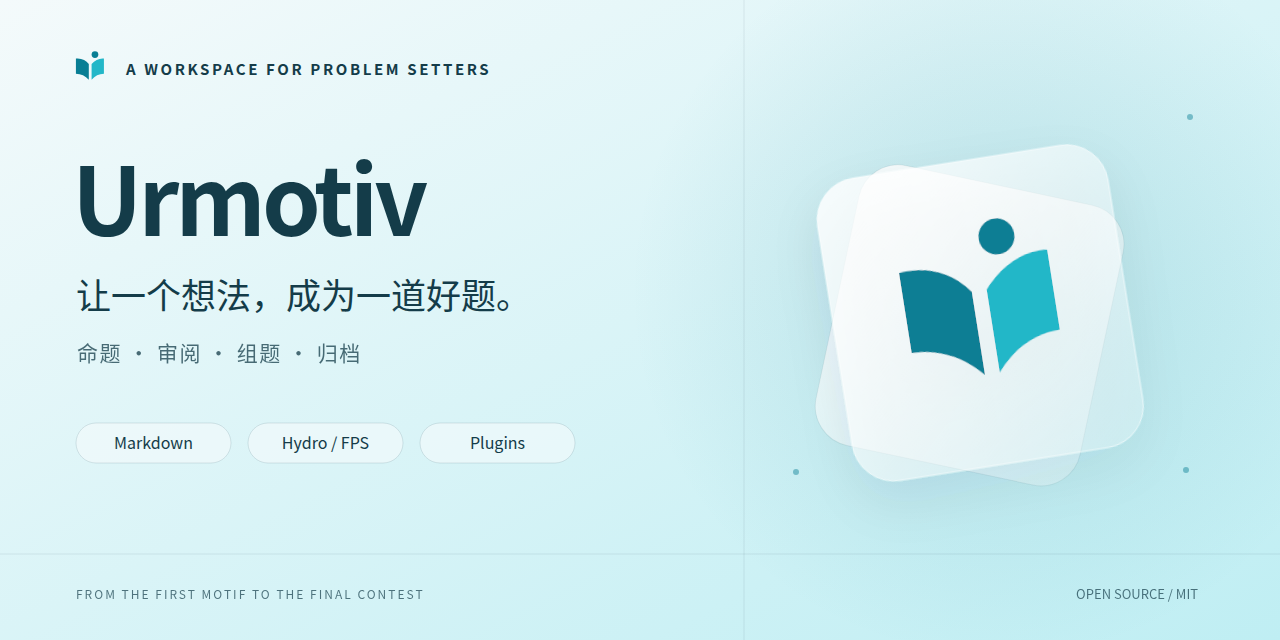
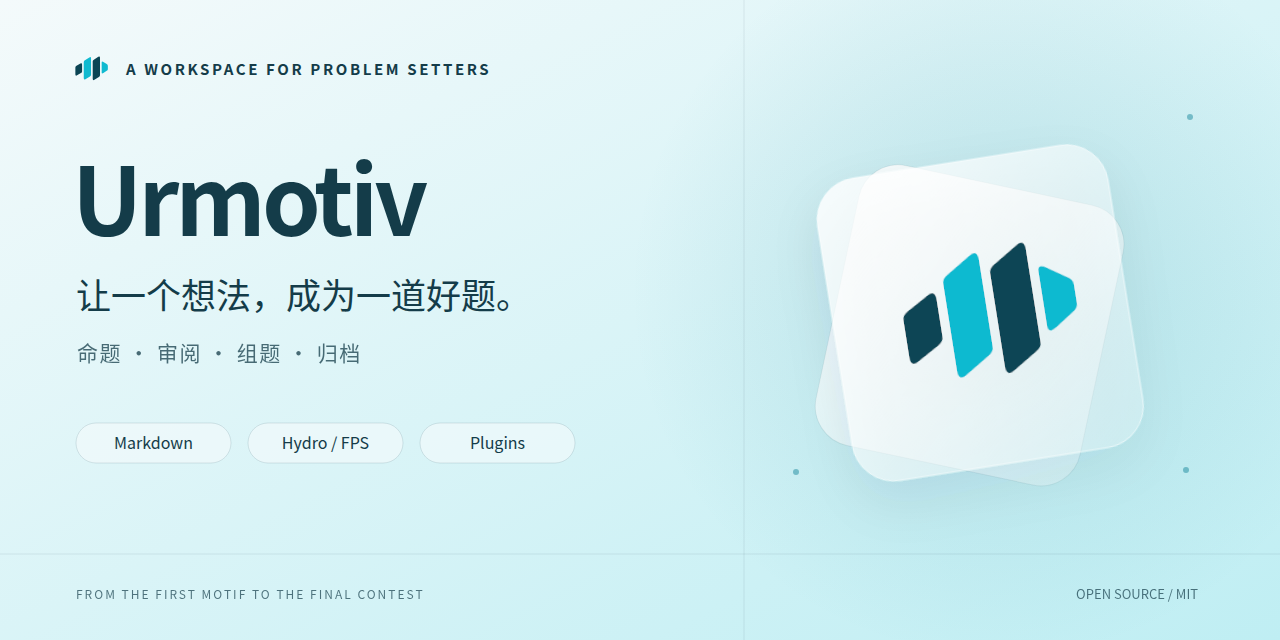
feat(brand): adopt the selected rhythmic motif identity

Changed region(s): [[0.6875, 0.3438, 0.8438, 0.5938], [0.0625, 0.0625, 0.0938, 0.125]]

diff --git a/apps/web/src/components/brand-mark.tsx b/apps/web/src/components/brand-mark.tsx
@@ -1,4 +1,4 @@
-/** 题稿展开为一个音乐动机；文字名称由相邻品牌链接提供。 */
+/** 长短相间的节奏短句；文字名称由相邻品牌链接提供。 */
 export function BrandMark() {
   return <img className="brand-mark" src="/brand/urmotiv.svg" alt="" aria-hidden="true" width="34" height="34" />;
 }

diff --git a/docs/assets/brand.md b/docs/assets/brand.md
@@ -1,0 +1,7 @@
+# 节奏短句
+
+Urmotiv 的标志由四个长短相间的形状组成，借音乐动机的重复与变化，表达想法在协作推敲中成为题目、编排为比赛的过程。深青色 `#0b4554` 与亮青色 `#10bad0` 交替出现；小尺寸使用纯色，避免渐变和细线丢失。
+
+最终标志位于 `apps/web/public/brand/urmotiv.svg`；仓库封面源文件是 `docs/assets/cover.svg`，预览是 `docs/assets/social-preview.png`。网站使用可缩放的 SVG，不依赖图片服务。
+
+构思阶段使用 imagegen CLI 的 `gpt-image-2.5-sunburst` 从零探索；用户选择“01 节奏短句”后，使用 `gpt-image-2.5-flare` 精修，最后人工整理成上述矢量路径。精修提示词核心：提取选定的四元素节奏，保留长短与方向变化，深青与亮青交替，纯白底，不要字母、书本、音符图标、数字、文字或渐变。封面为矢量排版，不是产品截图。

diff --git a/README.md b/README.md
@@ -21,7 +21,7 @@ Urmotiv 不执行选手代码。AI 审题和原题检索分别由独立的 [Ferm
 
 ![组题归档工作台，使用合成比赛与题目](docs/assets/contest-archive.png)
 
-截图来自真实界面的合成演示数据，不包含私有题库。新标志以展开的题稿和一个音符般的圆点，表达 Urmotiv 的“初始动机”：一个想法逐渐成为完整作品。
+截图来自真实界面的合成演示数据，不包含私有题库。标志是一句长短相间的节奏：一个动机经过重复、变化与推敲，成为完整的题目和比赛。
 
 ## 目录
 
